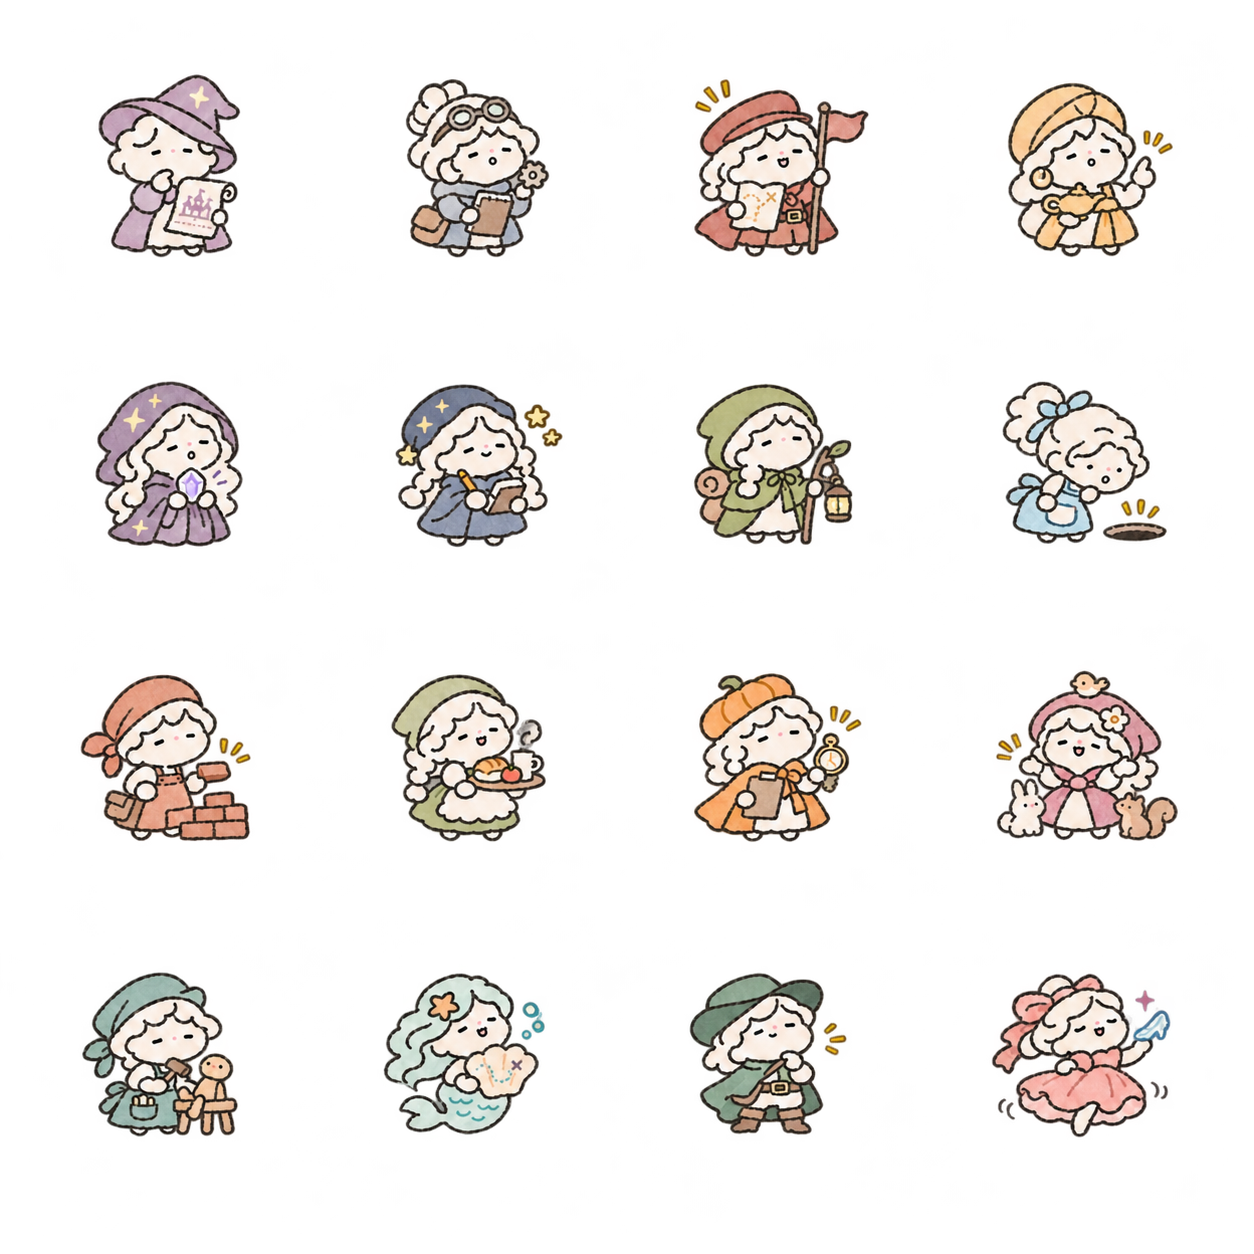
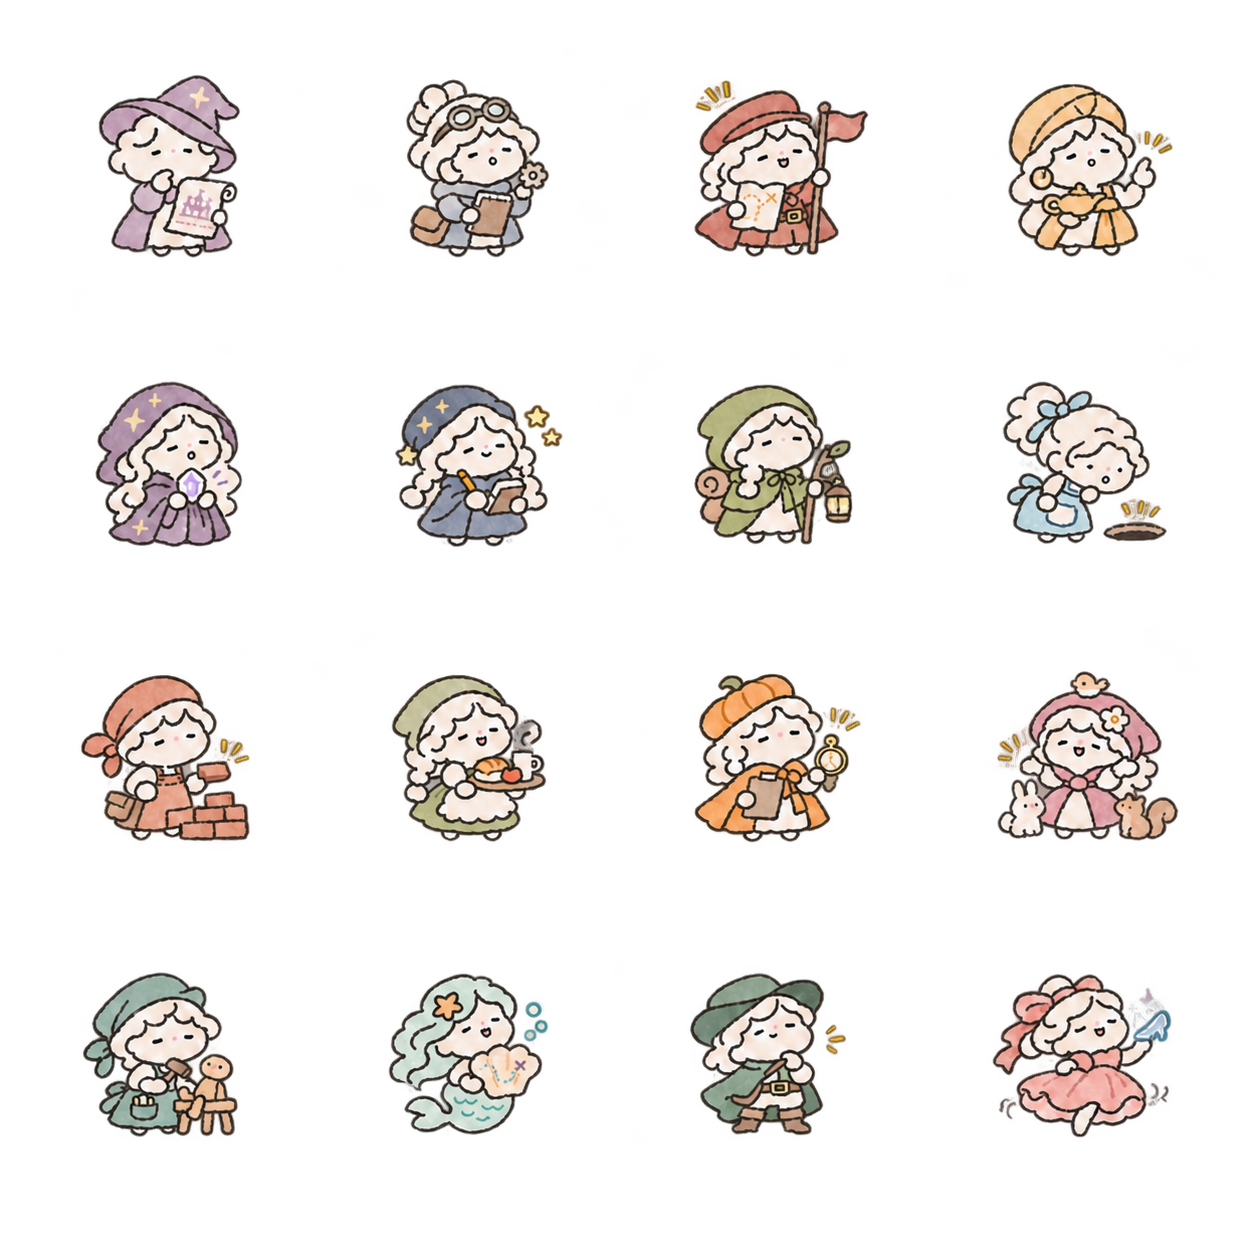
Refine world result character spacing

diff --git a/career_zoo/templates/world.css b/career_zoo/templates/world.css
@@ -34,7 +34,7 @@
   flex: 0 0 auto;
   width: clamp(138px, 39vw, 172px);
   aspect-ratio: 1;
-  background-image: url("assets/world_characters.png?v=20261104-spacing2");
+  background-image: url("assets/world_characters.png?v=20261104-spacing3");
   background-repeat: no-repeat;
   background-position: var(--sprite-x) var(--sprite-y);
   background-size: 400% 400%;
@@ -53,14 +53,17 @@
 .world-question .question-hint { background: var(--world-navy-soft); }
 
 .world-result .result-hero {
-  min-height: clamp(500px, 68svh, 570px);
+  justify-content: flex-start;
+  min-height: 0;
+  padding-block: clamp(22px, 6vw, 28px) clamp(26px, 7vw, 32px);
   border-color: #47433f;
   box-shadow: 5px 6px 0 #47433f;
 }
 
 .world-result-character {
   width: clamp(235px, 72vw, 310px);
-  margin-block: -6px;
+  margin-block: 0;
+  transform: translateY(clamp(16px, 5vw, 22px));
 }
 
 .world-result .result-name {
@@ -104,7 +107,7 @@
 .compatibility-card {
   display: flex;
   align-items: center;
-  gap: 12px;
+  gap: 14px;
   padding: 14px;
   border: 1px solid var(--line);
   border-radius: 16px;
@@ -112,7 +115,7 @@
 }
 .compatibility-card:nth-child(2) { background: #fff4dc; }
 .compatibility-card:nth-child(3) { background: #f1edf6; }
-.compatibility-character { width: 72px; }
+.compatibility-character { width: clamp(86px, 23vw, 96px); }
 .compatibility-copy { min-width: 0; flex: 1; }
 .compatibility-label { display: block; margin-bottom: 5px; color: var(--muted); font-size: 11px; font-weight: 800; }
 .compatibility-card strong { display: block; font-size: 14px; line-height: 1.35; word-break: keep-all; }
@@ -123,11 +126,11 @@
 @media (max-width: 389px) {
   .world-hero-art { height: clamp(168px, 28svh, 220px); }
   .sprite-character { width: clamp(122px, 40vw, 150px); }
-  .world-result .result-hero { min-height: 470px; }
+  .world-result-character { width: clamp(220px, 72vw, 280px); }
+  .compatibility-character { width: clamp(82px, 25vw, 92px); }
 }
 
 @media (max-height: 700px) {
   .world-hero-art { height: min(190px, 28svh); }
   .world-hero { gap: 13px; }
-  .world-result .result-hero { min-height: 455px; }
 }

diff --git a/career_zoo/templates/world.js b/career_zoo/templates/world.js
@@ -21,7 +21,7 @@ if (analyticsEnabled) {
 
 const app = document.querySelector("#app");
 const toast = document.querySelector("#toast");
-const spritePath = "assets/world_characters.png?v=20261104-spacing2";
+const spritePath = "assets/world_characters.png?v=20261104-spacing3";
 
 const questions = [
   {
@@ -577,7 +577,7 @@ async function downloadResultCard() {
       const x = 104 + index * 294;
       const related = results[code];
       context.fillStyle = index === 1 ? "#fff4dc" : "#ffffff"; roundedRect(context, x, relationY, 272, 230, 28);
-      drawSpriteCell(context, image, related.sprite, x + 96, relationY + 14, 80);
+      drawSpriteCell(context, image, related.sprite, x + 91, relationY + 9, 90);
       context.fillStyle = "#6f6962"; context.font = "800 19px system-ui, sans-serif"; context.fillText(label, x + 136, relationY + 114);
       context.fillStyle = "#292725"; context.font = '700 23px "Hakgyoansim Dunggeunmiso Web", system-ui, sans-serif';
       wrapCenteredText(context, related.name, x + 136, relationY + 153, 230, 29, 3);
